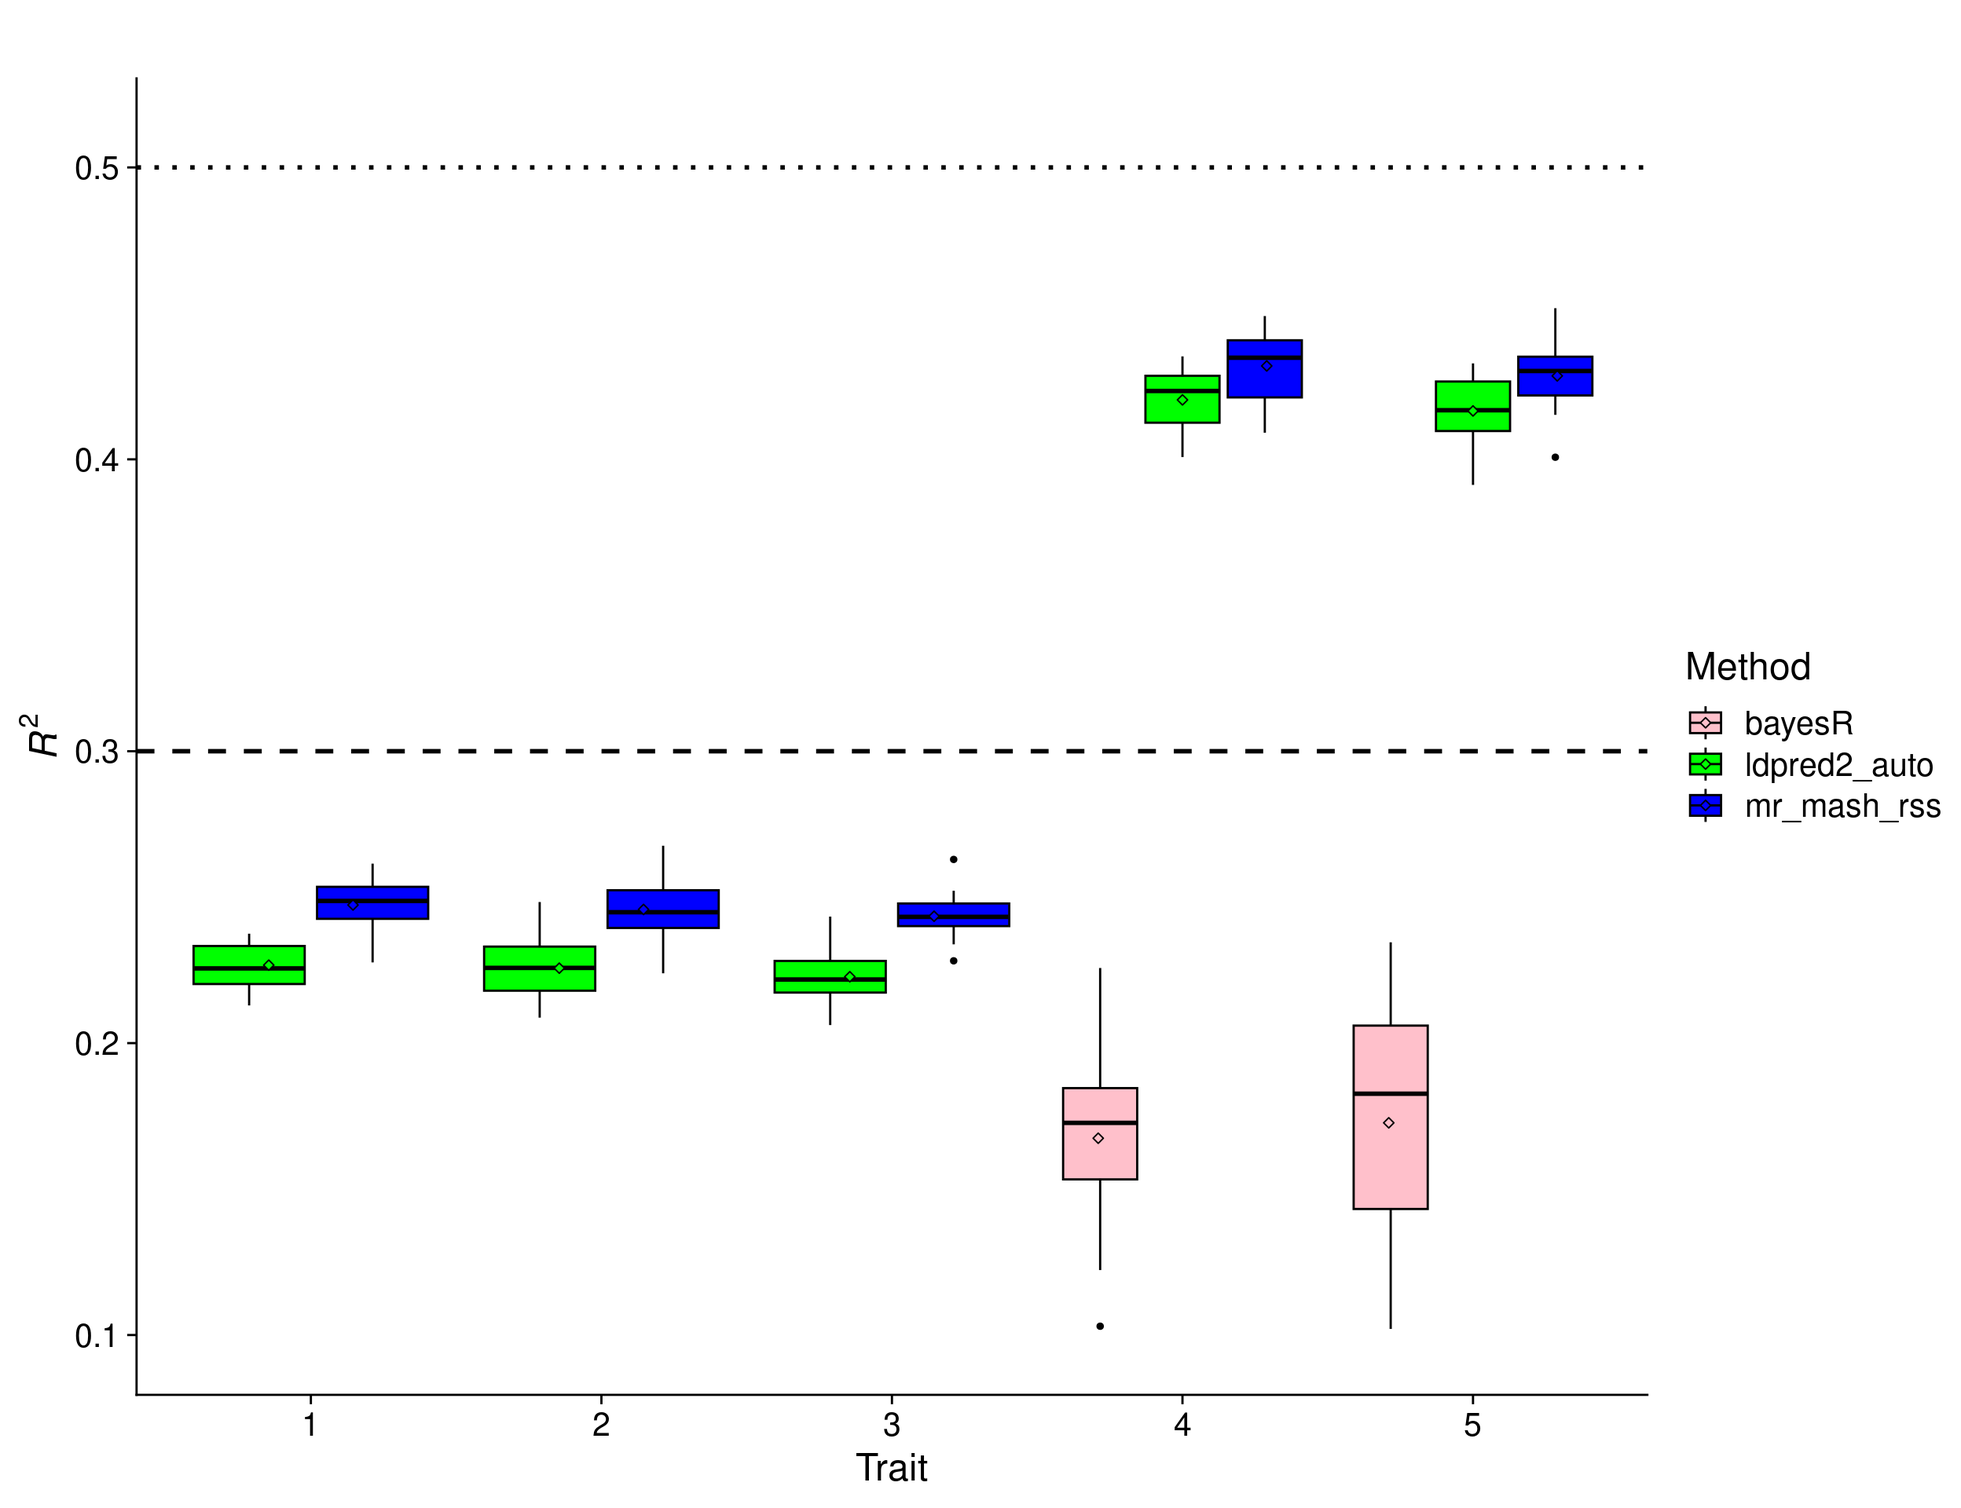
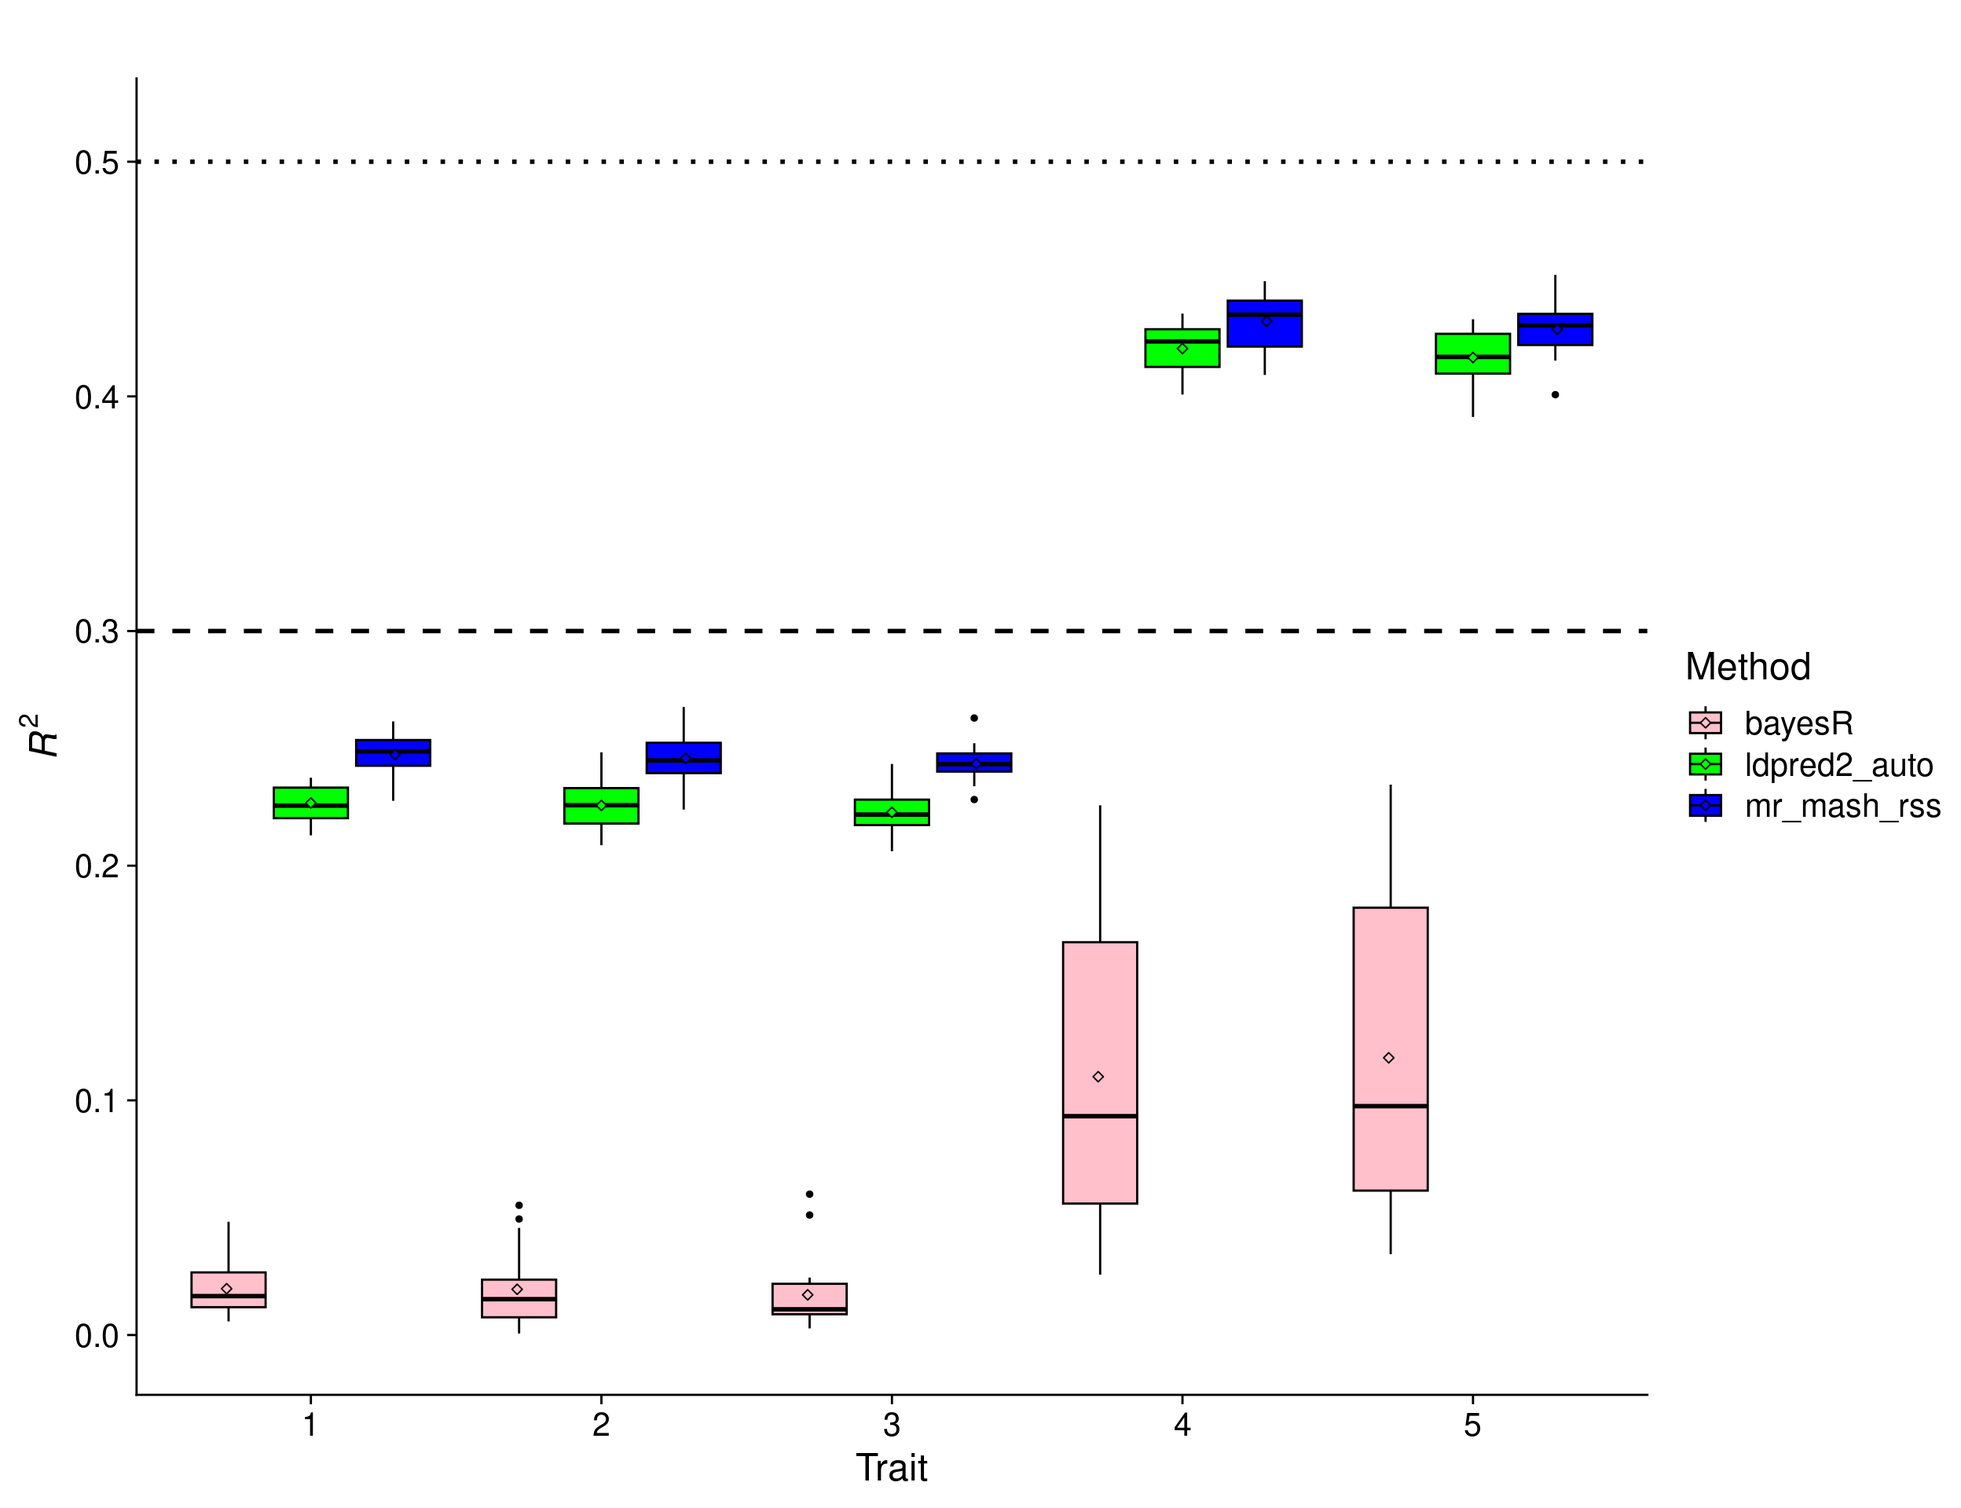
Build site.

diff --git a/docs/ukb_sim_results.html b/docs/ukb_sim_results.html
@@ -534,15 +534,15 @@ project makes it easier to run your code on other machines.</p>
 <div class="panel panel-default">
 <div class="panel-heading">
 <p class="panel-title">
-<a data-toggle="collapse" data-parent="#workflowr-checks" href="#strongRepositoryversionstrongahrefhttpsgithubcommorgantelabmrmashrssanalysistree36c46c03184df1392bada04efd2a8dc7b35460e0targetblank36c46c0a">
+<a data-toggle="collapse" data-parent="#workflowr-checks" href="#strongRepositoryversionstrongahrefhttpsgithubcommorgantelabmrmashrssanalysistree31759a78fe83783a25e83a6d75fb2da3b73be5fdtargetblank31759a7a">
 <span class="glyphicon glyphicon-ok text-success"
 aria-hidden="true"></span> <strong>Repository version:</strong>
-<a href="https://github.com/morgantelab/mr_mash_rss_analysis/tree/36c46c03184df1392bada04efd2a8dc7b35460e0" target="_blank">36c46c0</a>
+<a href="https://github.com/morgantelab/mr_mash_rss_analysis/tree/31759a78fe83783a25e83a6d75fb2da3b73be5fd" target="_blank">31759a7</a>
 </a>
 </p>
 </div>
 <div
[2 lines of base64/hex data omitted]
 class="panel-collapse collapse">
 <div class="panel-body">
 <p>
@@ -552,7 +552,7 @@ reproducibility.
 </p>
 <p>
 The results in this page were generated with repository version
-<a href="https://github.com/morgantelab/mr_mash_rss_analysis/tree/36c46c03184df1392bada04efd2a8dc7b35460e0" target="_blank">36c46c0</a>.
+<a href="https://github.com/morgantelab/mr_mash_rss_analysis/tree/31759a78fe83783a25e83a6d75fb2da3b73be5fd" target="_blank">31759a7</a>.
 See the <em>Past versions</em> tab to see a history of the changes made
 to the R Markdown and HTML files.
 </p>
@@ -630,6 +630,40 @@ Message
 </tr>
 </thead>
 <tbody>
+<tr>
+<td>
+Rmd
+</td>
+<td>
+<a href="https://github.com/morgantelab/mr_mash_rss_analysis/blob/31759a78fe83783a25e83a6d75fb2da3b73be5fd/analysis/ukb_sim_results.Rmd" target="_blank">31759a7</a>
+</td>
+<td>
+fmorgante
+</td>
+<td>
+2023-07-31
+</td>
+<td>
+Add low PVE and 10 traits scenarios
+</td>
+</tr>
+<tr>
+<td>
+html
+</td>
+<td>
+<a href="https://rawcdn.githack.com/morgantelab/mr_mash_rss_analysis/7b4d53c067a894386104c29153226c4a1bfa8d61/docs/ukb_sim_results.html" target="_blank">7b4d53c</a>
+</td>
+<td>
+fmorgante
+</td>
+<td>
+2023-07-31
+</td>
+<td>
+Build site.
+</td>
+</tr>
 <tr>
 <td>
 Rmd
@@ -1163,7 +1197,8 @@ rest of the analyses.</p>
 randomly sampling 5,000 variants (out of the total of 595,071) to be
 causal, with different effect sharing structures across traits (see
 below). The genetic effects explain 50% of the total per-trait variance
-– in genetics terminology this is called genomic heritability (<span
+(except for two scenario as explained below) – in genetics terminology
+this is called genomic heritability (<span
 class="math inline">\(h_g^2\)</span>). The residuals are uncorrelated
 across traits.</p>
 <p>We randomly sampled 5,000 (out of the 105,000) individuals to be the
@@ -1173,7 +1208,7 @@ individuals.</p>
 <p>Summary statistics (i.e., effect size and its standard error) were
 obtained by univariate simple linear regression of each trait on each
 variant, one at a time. Traits and variants were not standardized.</p>
-<p>Three different methods were fitted:</p>
+<p>Four different methods were fitted:</p>
 <ul>
 <li><a
 href="https://academic.oup.com/bioinformatics/article/36/22-23/5424/6039173">LDpred2</a>
@@ -1198,6 +1233,12 @@ on the null component and 10% of the weight split equally across the
 remaining components. The phenotypic covariance was computed as the
 sample covariance using the individual-level data. NB this is a
 multivariate method.</li>
+<li><a
+href="https://www.nature.com/articles/s41467-019-12653-0">BayesR</a>
+per-chromosome, with 1000 iterations (after 500 burn-in iterations),
+<span class="math inline">\(h^2\)</span> initialized as 0.5/22 and other
+default parameters. NB this is a univariate method. We used the
+implementation in the <em>qgg</em> R package.</li>
 </ul>
 <p>Prediction accuracy was evaluated as the <span
 class="math inline">\(R^2\)</span> of the regression of true phenotypes
@@ -1250,15 +1291,13 @@ p_methods_shared &lt;- ggplot(res, aes(x = trait, y = score, fill = method)) +
   stat_summary(fun=mean, geom=&quot;point&quot;, shape=23,
                position = position_dodge2(width = 0.87,   
                                           preserve = &quot;single&quot;)) +
-  ylim(0.3, 0.51) +
+  ylim(0, 0.51) +
   scale_fill_manual(values = c(&quot;pink&quot;, &quot;red&quot;, &quot;green&quot;, &quot;blue&quot;)) +
   labs(x = &quot;Trait&quot;, y = expression(italic(R)^2), fill=&quot;Method&quot;, title=&quot;&quot;) +
   geom_hline(yintercept=0.5, linetype=&quot;dotted&quot;, linewidth=1, color = &quot;black&quot;) +
   theme_cowplot(font_size = 18)
 
 print(p_methods_shared)</code></pre>
-<pre><code>Warning: Removed 100 rows containing non-finite values (`stat_boxplot()`).</code></pre>
-<pre><code>Warning: Removed 100 rows containing non-finite values (`stat_summary()`).</code></pre>
 <p><img src="figure/ukb_sim_results.Rmd/equal%20effects-1.png" width="1248" style="display: block; margin: auto;" /></p>
 <p>
 <button type="button" class="btn btn-default btn-xs btn-workflowr btn-workflowr-fig" data-toggle="collapse" data-target="#fig-no-spaces-equal-effects-1">
@@ -1328,7 +1367,9 @@ than both flavors of <em>LDpred2 auto</em>. However, in this simulation
 there does not seem to be much of a difference between <em>LDpred2
 auto</em> per-chromosome and genome-wide. Therefore, we will drop
 <em>LDpred2 auto</em> genome-wide from further analyses since it is more
-computationally intensive.</p>
+computationally intensive. <em>BayesR</em> gives unreasonably low
+prediction accuracy, which hints at issues with the default parameters
+and/or this particular implementation.</p>
 </div>
 <div id="mostly-null-scenario" class="section level2">
 <h2>Mostly null scenario</h2>
@@ -1375,7 +1416,7 @@ p_mostly_null &lt;- ggplot(res, aes(x = trait, y = score, fill = method)) +
                position = position_dodge2(width = 0.87,   
                                           preserve = &quot;single&quot;)) +
   ylim(0.0, 0.51) +
-  scale_fill_manual(values = c(&quot;pink&quot;, &quot;green&quot;, &quot;blue&quot;)) +
+  scale_fill_manual(values = c(&quot;pink&quot;, &quot;red&quot;, &quot;blue&quot;)) +
   labs(x = &quot;Trait&quot;, y = expression(italic(R)^2), fill=&quot;Method&quot;, title=&quot;&quot;) +
   geom_hline(yintercept=0.5, linetype=&quot;dotted&quot;, linewidth=1, color = &quot;black&quot;) +
   theme_cowplot(font_size = 18)
@@ -1404,6 +1445,17 @@ Date
 </tr>
 </thead>
 <tbody>
+<tr>
+<td>
+<a href="https://github.com/morgantelab/mr_mash_rss_analysis/blob/7b4d53c067a894386104c29153226c4a1bfa8d61/docs/figure/ukb_sim_results.Rmd/mostly null-1.png" target="_blank">7b4d53c</a>
+</td>
+<td>
+fmorgante
+</td>
+<td>
+2023-07-31
+</td>
+</tr>
 <tr>
 <td>
 <a href="https://github.com/morgantelab/mr_mash_rss_analysis/blob/6469c43904dac9825c9332290560f61b010c6108/docs/figure/ukb_sim_results.Rmd/mostly null-1.png" target="_blank">6469c43</a>
@@ -1435,7 +1487,10 @@ methods. In fact, there is potential for multivariate methods to do
 worse than univariate methods because of the large amount of noise
 modeled jointly with the signal. However, the results show that
 <em>mr.mash.rss</em> can learn this structure from the data and,
-reassuringly, performs similarly to <em>LDpred2 auto</em>.</p>
+reassuringly, performs similarly to <em>LDpred2 auto</em>. Again,
+**BayesR* gives unreasonably low prediction accuracy, which hints at
+issues with the default parameters and/or this particular
+implementation.</p>
 </div>
 <div id="shared-in-subgroups-scenario" class="section level2">
 <h2>Shared in subgroups scenario</h2>
@@ -1489,7 +1544,7 @@ p_blocks_shared &lt;- ggplot(res, aes(x = trait, y = score, fill = method)) +
   stat_summary(fun=mean, geom=&quot;point&quot;, shape=23,
                position = position_dodge2(width = 0.87,   
                                           preserve = &quot;single&quot;)) +
-  ylim(0.1, 0.51) +
+  ylim(0, 0.51) +
   scale_fill_manual(values = c(&quot;pink&quot;, &quot;green&quot;, &quot;blue&quot;)) +
   labs(x = &quot;Trait&quot;, y = expression(italic(R)^2), fill=&quot;Method&quot;, title=&quot;&quot;) +
   geom_hline(yintercept=0.5, linetype=&quot;dotted&quot;, linewidth=1, color = &quot;black&quot;) +
@@ -1497,8 +1552,6 @@ p_blocks_shared &lt;- ggplot(res, aes(x = trait, y = score, fill = method)) +
   theme_cowplot(font_size = 18)
 
 print(p_blocks_shared)</code></pre>
-<pre><code>Warning: Removed 81 rows containing non-finite values (`stat_boxplot()`).</code></pre>
-<pre><code>Warning: Removed 81 rows containing non-finite values (`stat_summary()`).</code></pre>
 <p><img src="figure/ukb_sim_results.Rmd/shared%20in%20subgroups-1.png" width="1248" style="display: block; margin: auto;" /></p>
 <p>
 <button type="button" class="btn btn-default btn-xs btn-workflowr btn-workflowr-fig" data-toggle="collapse" data-target="#fig-no-spaces-shared-in-subgroups-1">
@@ -1522,6 +1575,17 @@ Date
 </tr>
 </thead>
 <tbody>
+<tr>
+<td>
+<a href="https://github.com/morgantelab/mr_mash_rss_analysis/blob/7b4d53c067a894386104c29153226c4a1bfa8d61/docs/figure/ukb_sim_results.Rmd/shared in subgroups-1.png" target="_blank">7b4d53c</a>
+</td>
+<td>
+fmorgante
+</td>
+<td>
+2023-07-31
+</td>
+</tr>
 <tr>
 <td>
 <a href="https://github.com/morgantelab/mr_mash_rss_analysis/blob/9d82631a04663040f60e621129225a7d3bde7422/docs/figure/ukb_sim_results.Rmd/shared in subgroups-1.png" target="_blank">9d82631</a>
@@ -1566,7 +1630,142 @@ does better than <em>LDpred2 auto</em> across all the traits. However,
 the improvement is more evident in traits 1-3, due to the higher effect
 correlation across traits, the larger number of traits with shared
 effects, and the smaller <span class="math inline">\(h^2_g\)</span>
-(harder scenario for univariate methods).</p>
+(harder scenario for univariate methods). Again, <em>BayesR</em> gives
+unreasonably low prediction accuracy, which hints at issues with the
+default parameters and/or this particular implementation.</p>
+</div>
+<div id="equal-effects-scenario-low-pve" class="section level2">
+<h2>Equal effects scenario – low PVE</h2>
+<p>In this scenario, the effects were drawn from a Multivariate Normal
+distribution with mean vector 0 and covariance matrix that achieves a
+per-trait variance of 1 and a correlation across traits of 1. This
+implies that the effects of the causal variants are equal across
+responses. In addition, the per-trait genomic heritability was set to
+0.2.</p>
+<pre class="r"><code>scenarioz &lt;- &quot;equal_effects_low_pve_indep_resid&quot;
+methodz &lt;- c(&quot;mr_mash_rss&quot;, &quot;ldpred2_auto&quot;, &quot;bayesR&quot;)
+
+i &lt;- 0
+
+n_col &lt;- 6
+n_row &lt;- length(repz) * length(scenarioz) * length(methodz) * length(traitz)
+res &lt;- as.data.frame(matrix(NA, ncol=n_col, nrow=n_row))
+colnames(res) &lt;- c(&quot;rep&quot;, &quot;scenario&quot;, &quot;method&quot;, &quot;trait&quot;, &quot;metric&quot;, &quot;score&quot;)
+
+for(sce in scenarioz){
+  for(met in methodz){
+    for(repp in repz){
+      dat &lt;- readRDS(paste0(prefix, &quot;_&quot;, sce, &quot;_&quot;, met, &quot;_pred_acc_&quot;, repp, &quot;.rds&quot;))
+      
+      for(trait in traitz){
+        i &lt;- i + 1
+        
+        res[i, 1] &lt;- repp
+        res[i, 2] &lt;- sce
+        res[i, 3] &lt;- met
+        res[i, 4] &lt;- trait
+        res[i, 5] &lt;- metric
+        res[i, 6] &lt;- dat$r2[trait]
+      }
+    }
+  }
+}
+
+res &lt;- transform(res, scenario=as.factor(scenario),
+                      method=as.factor(method),
+                      trait=as.factor(trait))
+
+p_methods_shared_lowpve &lt;- ggplot(res, aes(x = trait, y = score, fill = method)) +
+  geom_boxplot(color = &quot;black&quot;, outlier.size = 1, width = 0.85) +
+  stat_summary(fun=mean, geom=&quot;point&quot;, shape=23,
+               position = position_dodge2(width = 0.87,   
+                                          preserve = &quot;single&quot;)) +
+  ylim(0, 0.2) +
+  scale_fill_manual(values = c(&quot;pink&quot;, &quot;green&quot;, &quot;blue&quot;)) +
+  labs(x = &quot;Trait&quot;, y = expression(italic(R)^2), fill=&quot;Method&quot;, title=&quot;&quot;) +
+  geom_hline(yintercept=0.2, linetype=&quot;dotted&quot;, linewidth=1, color = &quot;black&quot;) +
+  theme_cowplot(font_size = 18)
+
+print(p_methods_shared_lowpve)</code></pre>
+<p><img src="figure/ukb_sim_results.Rmd/equal%20effects%20low%20pve-1.png" width="1248" style="display: block; margin: auto;" /></p>
+<p>In this scenario, we expect the relative improvement of multivariate
+methods compared to univariate methods to be larger than with <span
+class="math inline">\(h^2_g = 0.5\)</span>. This is because with smaller
+signal-to-noise ratio, it is harder for univariate methods to estimate
+effects accurately. Multivariate methods can borrow information across
+traits (if effects are shared) and improve accuracy. The results show
+that <em>mr.mash.rss</em> clearly does better than <em>LDpred2
+auto</em>. Again, <em>BayesR</em> gives unreasonably low prediction
+accuracy, which hints at issues with the default parameters and/or this
+particular implementation.</p>
+</div>
+<div id="equal-effects-scenario-10-traits" class="section level2">
+<h2>Equal effects scenario – 10 traits</h2>
+<p>In this scenario, the effects were drawn from a Multivariate Normal
+distribution with mean vector 0 and covariance matrix that achieves a
+per-trait variance of 1 and a correlation across traits of 1. This
+implies that the effects of the causal variants are equal across
+responses. In addition, the number of traits was increased to 10.</p>
+<pre class="r"><code>scenarioz &lt;- &quot;equal_effects_10traits_indep_resid&quot;
+methodz &lt;- c(&quot;mr_mash_rss&quot;, &quot;ldpred2_auto&quot;, &quot;bayesR&quot;)
+
+i &lt;- 0
+
+traitz &lt;- 1:10
+repz &lt;- c(1:10, 12:20)
+
+n_col &lt;- 6
+n_row &lt;- length(repz) * length(scenarioz) * length(methodz) * length(traitz)
+res &lt;- as.data.frame(matrix(NA, ncol=n_col, nrow=n_row))
+colnames(res) &lt;- c(&quot;rep&quot;, &quot;scenario&quot;, &quot;method&quot;, &quot;trait&quot;, &quot;metric&quot;, &quot;score&quot;)
+
+for(sce in scenarioz){
+  for(met in methodz){
+    for(repp in repz){
+      dat &lt;- readRDS(paste0(prefix, &quot;_&quot;, sce, &quot;_&quot;, met, &quot;_pred_acc_&quot;, repp, &quot;.rds&quot;))
+      
+      for(trait in traitz){
+        i &lt;- i + 1
+        
+        res[i, 1] &lt;- repp
+        res[i, 2] &lt;- sce
+        res[i, 3] &lt;- met
+        res[i, 4] &lt;- trait
+        res[i, 5] &lt;- metric
+        res[i, 6] &lt;- dat$r2[trait]
+      }
+    }
+  }
+}
+
+res &lt;- transform(res, scenario=as.factor(scenario),
+                      method=as.factor(method),
+                      trait=as.factor(trait))
+
+p_methods_shared_10traits &lt;- ggplot(res, aes(x = trait, y = score, fill = method)) +
+  geom_boxplot(color = &quot;black&quot;, outlier.size = 1, width = 0.85) +
+  stat_summary(fun=mean, geom=&quot;point&quot;, shape=23,
+               position = position_dodge2(width = 0.87,   
+                                          preserve = &quot;single&quot;)) +
+  ylim(0, 0.51) +
+  scale_fill_manual(values = c(&quot;pink&quot;, &quot;green&quot;, &quot;blue&quot;)) +
+  labs(x = &quot;Trait&quot;, y = expression(italic(R)^2), fill=&quot;Method&quot;, title=&quot;&quot;) +
+  geom_hline(yintercept=0.5, linetype=&quot;dotted&quot;, linewidth=1, color = &quot;black&quot;) +
+  theme_cowplot(font_size = 18)
+
+print(p_methods_shared_10traits)</code></pre>
+<p><img src="figure/ukb_sim_results.Rmd/equal%20effects%2010%20traits-1.png" width="1248" style="display: block; margin: auto;" /></p>
+<p>In this scenario, we expect the relative improvement of multivariate
+methods compared to univariate methods to be a little larger than with 5
+traits. This is because multivariate methods can borrow information
+across a larger number of traits (if effects are shared) and improve
+accuracy. The results show that <em>mr.mash.rss</em> clearly does better
+than <em>LDpred2 auto</em>, but the improvement compared to the scenario
+with 5 traits is small (<span
+class="math inline">\(mean(\frac{mr.mash.rss R^2}{LDpred2 auto R^2}) =
+1.1157\)</span> vs $mean() = 1.1057). Again, <em>BayesR</em> gives
+unreasonably low prediction accuracy, which hints at issues with the
+default parameters and/or this particular implementation.</p>
 <br>
 <p>
 <button type="button" class="btn btn-default btn-workflowr btn-workflowr-sessioninfo" data-toggle="collapse" data-target="#workflowr-sessioninfo" style="display: block;">
